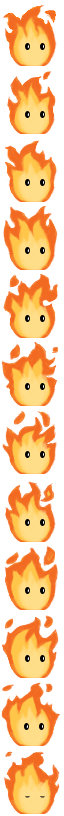
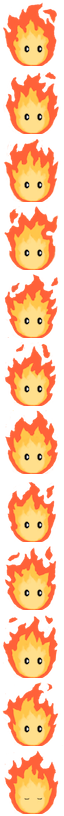
aiden running animation

Changed region(s): [[0.0312, 0.0, 0.9375, 1.0]]

diff --git a/Aiden/core/src/edu/cornell/gdiac/physics/character/AidenModel.java b/Aiden/core/src/edu/cornell/gdiac/physics/character/AidenModel.java
@@ -39,6 +39,7 @@ public class AidenModel extends CharacterModel {
 	protected static final float MAX_JUMP_TIME=0.05f;
 	private boolean smallSized = false;
 	private int jumpFrame = 0;
+	private int runFrame = 0;
 	private boolean drawJumping = false;
 	private FilmStrip jump;	
 	public boolean resume = false;;
@@ -67,6 +68,7 @@ public class AidenModel extends CharacterModel {
 	private float cRatio;
 	/** Texture for fire trail */
 	private FilmStrip death;
+	private FilmStrip run;
 	private Color preColor = Color.WHITE;
 	private boolean drawFail = false;
 	private boolean failed = false;
@@ -99,6 +101,10 @@ public class AidenModel extends CharacterModel {
 	public void setDeath(FilmStrip die) {
 		this.death = die;
 		death.setFrame(0);
+	}
+	public void setRun(FilmStrip run){
+		this.run = run;
+		this.run.setFrame(0);
 	}
 
 	/**
@@ -494,6 +500,9 @@ public class AidenModel extends CharacterModel {
 			if (drawJumping){
 				drawJump(canvas, ratio);
 			}
+			else if (Math.abs(this.getVX()) >= 5){
+				drawRun(canvas, ratio);
+			}
 			else{
 				animate(canvas, c, ratio);
 			}
@@ -503,7 +512,7 @@ public class AidenModel extends CharacterModel {
 	public void drawDead(GameCanvas canvas) {
 		if (this.animeCoolDown <= 0) {
 			animeCoolDown = MAX_ANIME_TIME;
-			death.setFrame(Math.min(death.getFrame() + 1, 12));
+			death.setFrame(Math.min(death.getFrame() + 1, 11));
 		}
 
 		// For placement purposes, put origin in center.
@@ -540,6 +549,21 @@ public class AidenModel extends CharacterModel {
 			jumpFrame = 0;
 			drawJumping = false;
 		}
+	}
+	
+	public void drawRun(GameCanvas canvas, float ratio) {
+		if (this.animeCoolDown<=0) {
+			animeCoolDown=MAX_ANIME_TIME;
+			run.setFrame((run.getFrame()+1)%12);
+		}
+
+		// For placement purposes, put origin in center.
+		float ox = 0.5f * characterSprite.getRegionWidth();
+		float oy = 0.5f * characterSprite.getRegionHeight();
+
+		float effect = faceRight ? 1.0f : -1.0f;
+		canvas.draw(run, preColor, ox, oy, getX() * drawScale.x,
+				getY() * drawScale.y, getAngle(), -effect*ratio, ratio);
 	}
 	
 }

diff --git a/Aiden/core/src/edu/cornell/gdiac/physics/scene/AssetFile.java b/Aiden/core/src/edu/cornell/gdiac/physics/scene/AssetFile.java
@@ -59,7 +59,10 @@ public class AssetFile {
 	public FilmStrip AidenAnimeTexture;
 	public FilmStrip AidenDieTexture;
 	public FilmStrip AidenJumpTexture;
+	public FilmStrip AidenRunTexture;
+	public FilmStrip AidenIdleTexture;
 	public FilmStrip WaterWalkTexture;
+	public FilmStrip WaterChaseTexture;
 	public FilmStrip WaterDieTexture;
 	/** Texture for burning animation */
 	public FilmStrip[] burningTexture;
@@ -110,6 +113,9 @@ public class AssetFile {
 		files.put("TRAPDOOR_FILE", "platform/trapdoor.png");
 		files.put("BAR_OUTTER", "platform/barOuter.png");
 		files.put("BAR_INNER", "platform/barInner.png");
+		files.put("AIDEN_RUN", "platform/fast.png");
+		files.put("AIDEN_IDLE", "platform/idle.png");
+		files.put("WATER_CHASE", "platform/water-chase.png");
 		System.out.println(files);
 	}
 
@@ -226,8 +232,8 @@ public class AssetFile {
 				1,
 				4);
 		AidenDieTexture = createFilmStrip(manager, files.get("AIDEN_DIE_FILE"),
-				13,
-				1, 13);
+				12,
+				1, 12);
 		AidenAnimeTexture = createFilmStrip(manager,
 				files.get("AIDEN_ANIME_FILE"),
 				12, 1,
@@ -238,6 +244,9 @@ public class AssetFile {
 				files.get("WATER_DIE_FILE"),
 				12, 1,
 				12);
+		AidenRunTexture = createFilmStrip(manager, files.get("AIDEN_RUN"), 12, 1, 12);
+		AidenIdleTexture = createFilmStrip(manager, files.get("AIDEN_IDLE"), 12, 1, 12);
+		WaterChaseTexture = createFilmStrip(manager, files.get("WATER_CHASE"), 4, 1, 4);
 
 		burningTexture = new FilmStrip[200];
 		for (int i = 0; i < 200; i++) {

diff --git a/Aiden/core/src/edu/cornell/gdiac/physics/GDXRoot.java b/Aiden/core/src/edu/cornell/gdiac/physics/GDXRoot.java
@@ -205,6 +205,10 @@ public class GDXRoot extends Game implements ScreenListener {
 		assets.add(af.get("BAR_OUTTER"));
 		manager.load(af.get("BAR_INNER"), Texture.class);
 		assets.add(af.get("BAR_INNER"));
+		manager.load(af.get("AIDEN_RUN"), Texture.class);
+		assets.add(af.get("AIDEN_RUN"));
+		manager.load(af.get("AIDEN_IDLE"), Texture.class);
+		assets.add(af.get("AIDEN_IDLE"));
 	
 		manager.load(af.get("JUMP_FILE"), Sound.class);
 		assets.add(af.get("JUMP_FILE"));

diff --git a/Aiden/core/src/edu/cornell/gdiac/physics/AidenController.java b/Aiden/core/src/edu/cornell/gdiac/physics/AidenController.java
@@ -303,6 +303,7 @@ public class AidenController extends WorldController
 		avatar.setLinearDamping(.1f);
 		avatar.setRestitution(0f);
 		avatar.setJump(af.AidenJumpTexture);
+		avatar.setRun(af.AidenRunTexture);
 		avatar.setCharacterSprite(af.AidenAnimeTexture);
 		avatar.setName("aiden");
 		if (gs.getLevel() == level && gs.getCheckpoint() != -1) {

diff --git a/Aiden/core/src/edu/cornell/gdiac/physics/GameCanvas.java b/Aiden/core/src/edu/cornell/gdiac/physics/GameCanvas.java
@@ -647,8 +647,7 @@ public class GameCanvas {
 			System.out.println(getWidth()+ " "+getHeight());
 
 			target.set(x, y, 0);
-			//eye.set(target).add(0, NEAR_DIST, -EYE_DIST);
-
+			
 			// Position the camera
 			float f = -1f;
 			Vector3 d = target.add(new Vector3(f*camera.position.x,f*camera.position.y,0));
